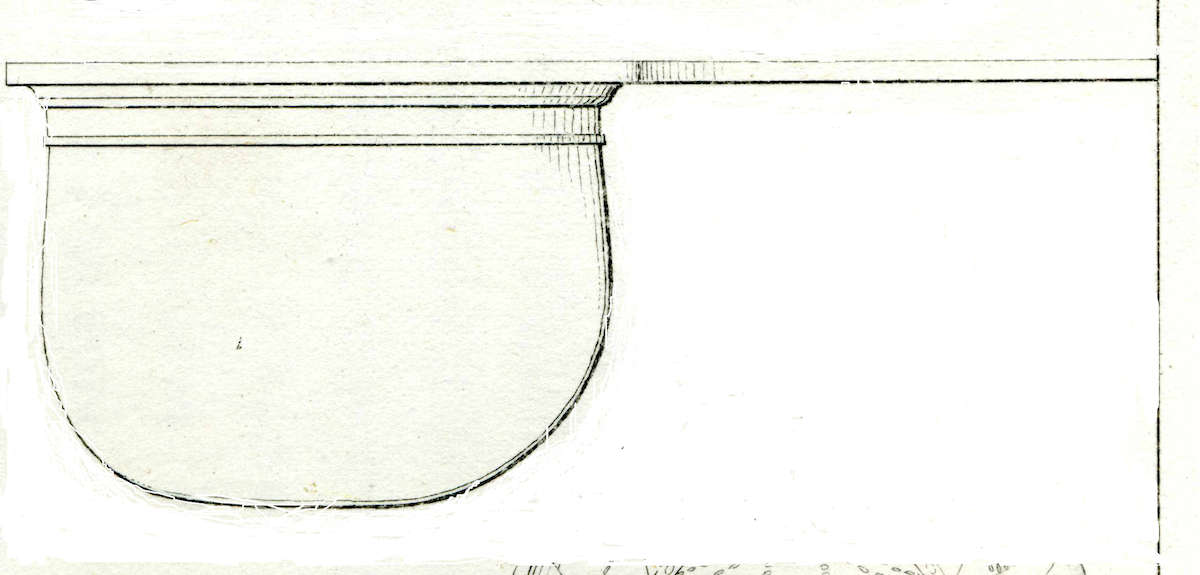
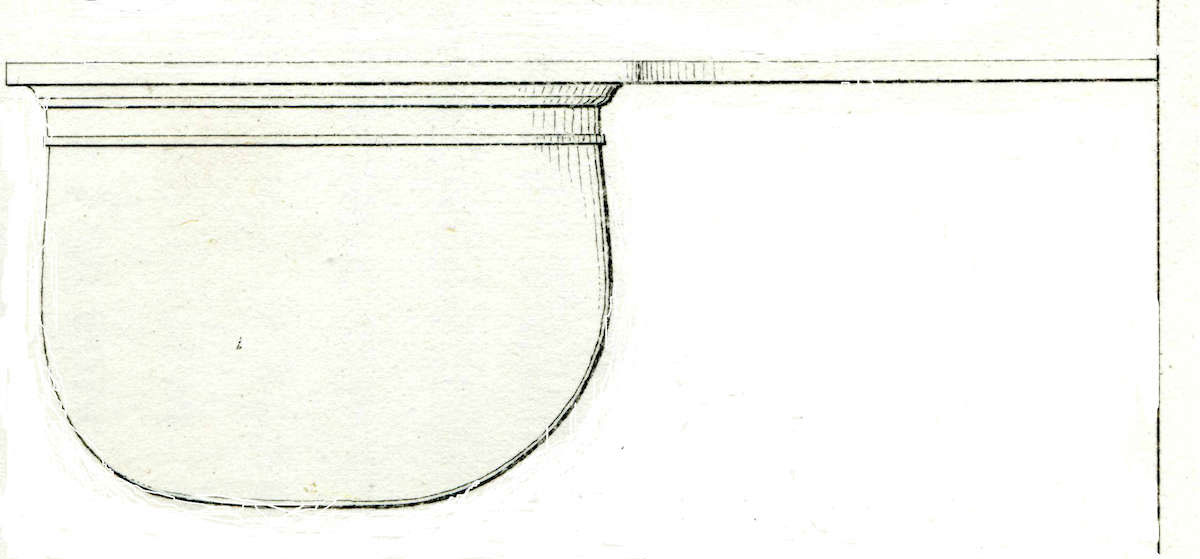
Adjust image crops and placements, #24 and #29

diff --git a/content/vessels/29-lester.md b/content/vessels/29-lester.md
@@ -25,11 +25,13 @@ This paper focuses on a few types of vessels—lampstands, saucepans, braziers, 
 
 ## Lampstands
 
-Fatimid lampstands are typically composed of three parts: a tripod base, a shaft, and a tray ([fig. 29.1](#29.1)). The shaft is designed to fit into the central socket of the base; the bottom part of the tray was soldered to the shaft. {{< q-figure id="29.1" class="float-left" >}}The lampstands are characterized by a stylistic continuity between the base and the shaft; thus a base with a round body was fitted to a round shaft and a polygonal base supported a polygonal shaft.
+{{< q-figure id="29.1" class="float-right" >}}
+
+Fatimid lampstands are typically composed of three parts: a tripod base, a shaft, and a tray ([fig. 29.1](#29.1)). The shaft is designed to fit into the central socket of the base; the bottom part of the tray was soldered to the shaft. The lampstands are characterized by a stylistic continuity between the base and the shaft; thus a base with a round body was fitted to a round shaft and a polygonal base supported a polygonal shaft.
 
 The Fatimid lampstand is the outcome of a long process of adaption, beginning in the Persian period during the late sixth–fifth century BC. The earliest example is a lampstand with three sharply bent legs with cloven hooves, and a long fluted shaft with a bowl attached on the top. Three palmettes or ivy leafs emerge between the legs.[^9] This tradition continues to the early Imperial period (first–third century AD), with lampstands characterized by ivy leaf design between the legs, and a krater-shaped top ([fig. 29.2a](#29.2a)).[^10] In parallel, during the first century AD, we find another subtype of lampstand, with a circular plate that rests on the legs ([fig. 29.2b](#29.2b)). The decoration of the plate consists of ovolo and other moldings.[^11] A lampstand of the same type is dated between the second and third centuries AD, however the plate has become convex with engraved decoration.[^12]
 
-{{< q-figure-group id="29.2a, 29.2b" grid="2" >}}
+{{< q-figure-group id="29.2a, 29.2b" grid="2">}}
 
 Later, during the fifth and sixth centuries AD, the morphology of the lampstand changes. The round horizontal plate transforms into a tent-shaped canopy, with the protruding leaf motif combined amid the legs. The shaft has two variations. One is a solid, hexagonal form with bulges at the edges;[^13] the other is baluster in shape composed of spherical balls soldered together.[^14] On the upper part of the lampstand, the bowl was modified into a circular tray, sometimes with a central spike on which a metal lamp was placed.[^15]
 
